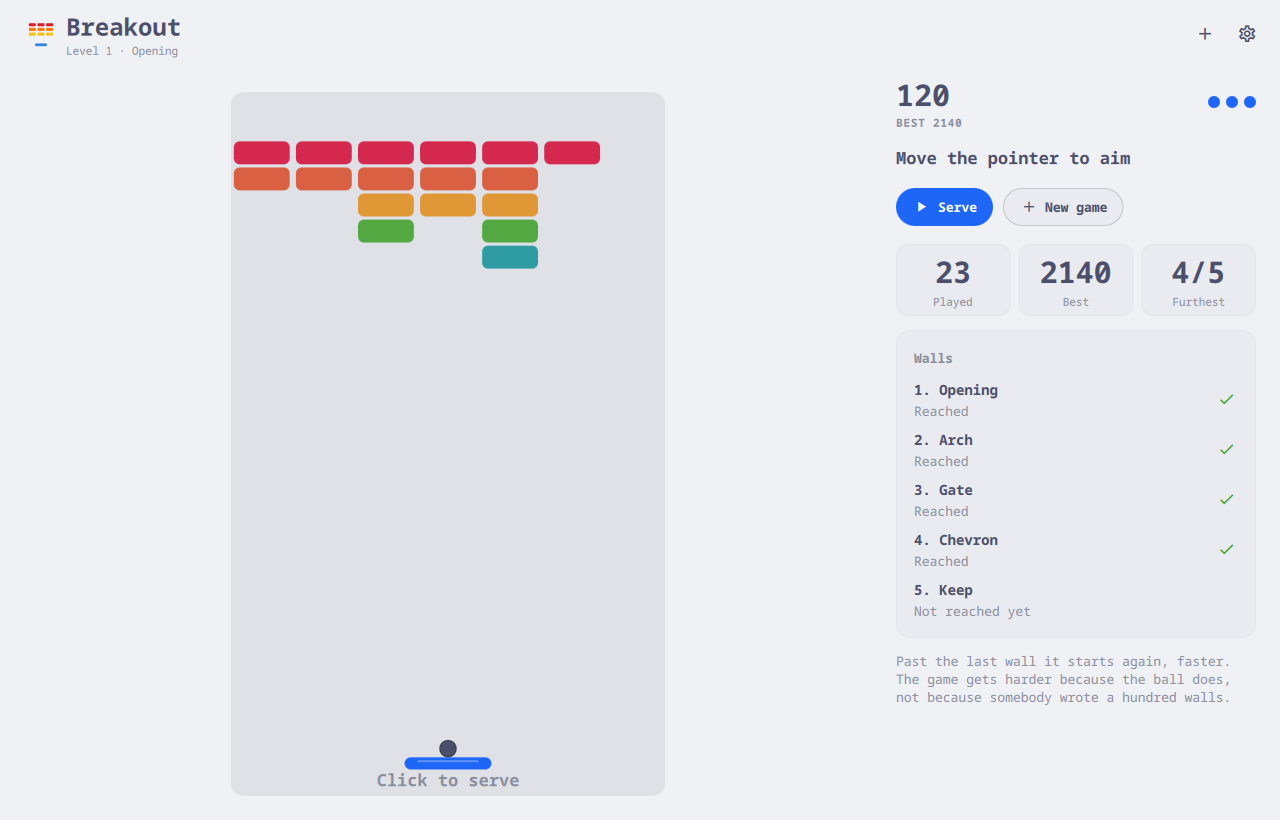
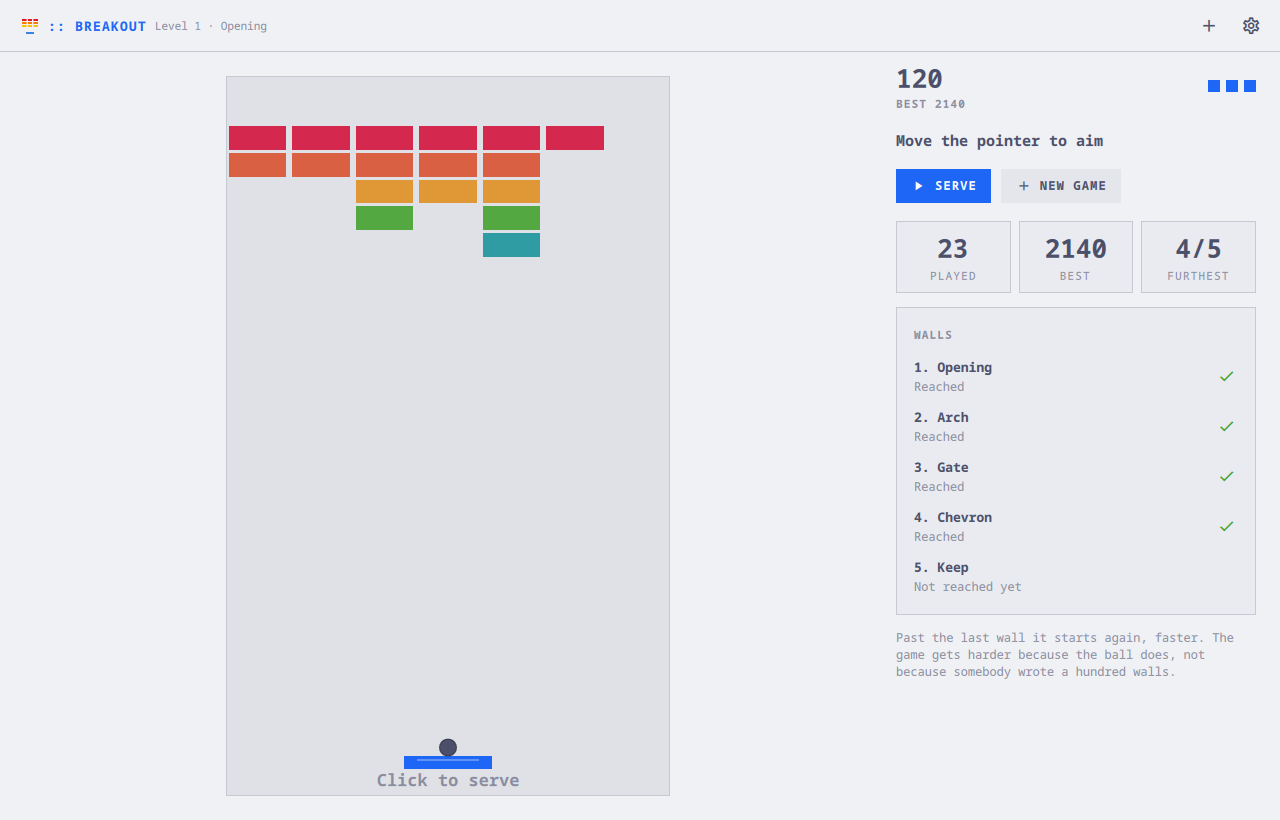
Breakout in Omarchy's look: a lined field, square bricks and bat
The field is a lined box, the bricks and the bat are square unless the
theme rounds its windows, and the lives are three small squares. The ball
stays a ball. The record's figures are lined boxes labelled in capitals.

diff --git a/apps/breakout/Field.qml b/apps/breakout/Field.qml
@@ -34,8 +34,10 @@ Item {
     y: root.oy
     width: root.across
     height: root.across * B.HEIGHT
-    radius: root.across * 0.03
+    radius: root.app.ui.radius
     color: root.app.ui.field
+    border.width: 1
+    border.color: root.app.ui.line
     clip: true
 
     Repeater {
@@ -51,7 +53,8 @@ Item {
         y: root.px(r.y + gap / 4)
         width: root.px(r.w - gap)
         height: root.px(r.h - gap / 2)
-        radius: root.px(B.BRICK_H * 0.22)
+        // Square as the rest of the app is, unless the theme rounds.
+        radius: root.app.ui.radius > 0 ? root.px(B.BRICK_H * 0.22) : 0
         color: root.app.ui.rows[Math.floor(index / B.COLUMNS) % root.app.ui.rows.length]
 
         // The groove that says this one is not done yet: one per hit still
@@ -82,14 +85,14 @@ Item {
       y: root.px(B.BAT_Y - B.BAT_H / 2)
       width: root.px(B.BAT_W)
       height: root.px(B.BAT_H)
-      radius: height / 2
+      radius: root.app.ui.round(height)
       color: root.app.ui.bat
       Rectangle {
         anchors.horizontalCenter: parent.horizontalCenter
         y: parent.height * 0.32 - height / 2
         width: parent.width * 0.7
         height: Math.max(1, parent.height * 0.16)
-        radius: height / 2
+        radius: root.app.ui.round(height)
         color: root.app.ui.batRim
       }
     }

diff --git a/apps/breakout/Readings.qml b/apps/breakout/Readings.qml
@@ -1,6 +1,6 @@
 import QtQuick
 
-// The score, the best, and the lives left as a row of dots: three of anything
+// The score, the best, and the lives left as a row of marks: three of anything
 // is faster to read as three shapes than as a digit, and this is glanced at in
 // the middle of a rally without taking an eye off the ball.
 Item {
@@ -25,8 +25,8 @@ Item {
       color: root.app.ui.muted
       font.family: root.app.ui.font
       font.pixelSize: root.app.ui.fs.xs
-      font.weight: Font.DemiBold
-      font.letterSpacing: 0.8
+      font.weight: Font.Bold
+      font.letterSpacing: root.app.ui.tracking
     }
   }
 
@@ -42,10 +42,10 @@ Item {
         required property int index
         width: 12
         height: 12
-        radius: 6
+        radius: root.app.ui.round(height)
         color: index < root.app.lives ? root.app.ui.bat : "transparent"
-        border.width: 2
-        border.color: index < root.app.lives ? root.app.ui.bat : root.app.ui.border
+        border.width: index < root.app.lives ? 0 : 1
+        border.color: root.app.ui.line
       }
     }
   }

diff --git a/apps/breakout/RecordView.qml b/apps/breakout/RecordView.qml
@@ -23,10 +23,10 @@ Column {
         required property var modelData
         width: (root.width - 16) / 3
         height: 72
-        radius: root.app.ui.radius + 2
+        radius: root.app.ui.radius
         color: root.app.ui.surface
         border.width: 1
-        border.color: root.app.ui.divider
+        border.color: root.app.ui.line
         Column {
           anchors.centerIn: parent
           spacing: 2
@@ -45,6 +45,8 @@ Column {
             color: root.app.ui.muted
             font.family: root.app.ui.font
             font.pixelSize: root.app.ui.fs.xs
+            font.capitalization: Font.AllUppercase
+            font.letterSpacing: root.app.ui.tracking
           }
         }
       }
@@ -71,7 +73,7 @@ Column {
             color: root.app.ui.text
             font.family: root.app.ui.font
             font.pixelSize: root.app.ui.fs.md
-            font.weight: Font.DemiBold
+            font.weight: Font.Bold
           }
           Text {
             text: row.reached ? "Reached" : "Not reached yet"

diff --git a/apps/breakout/Panel.qml b/apps/breakout/Panel.qml
@@ -465,7 +465,7 @@ App {
           color: root.dead ? root.ui.bad : root.ui.text
           font.family: root.ui.font
           font.pixelSize: root.ui.fs.lg
-          font.weight: Font.DemiBold
+          font.weight: Font.Bold
         }
         Row {
           spacing: 10
